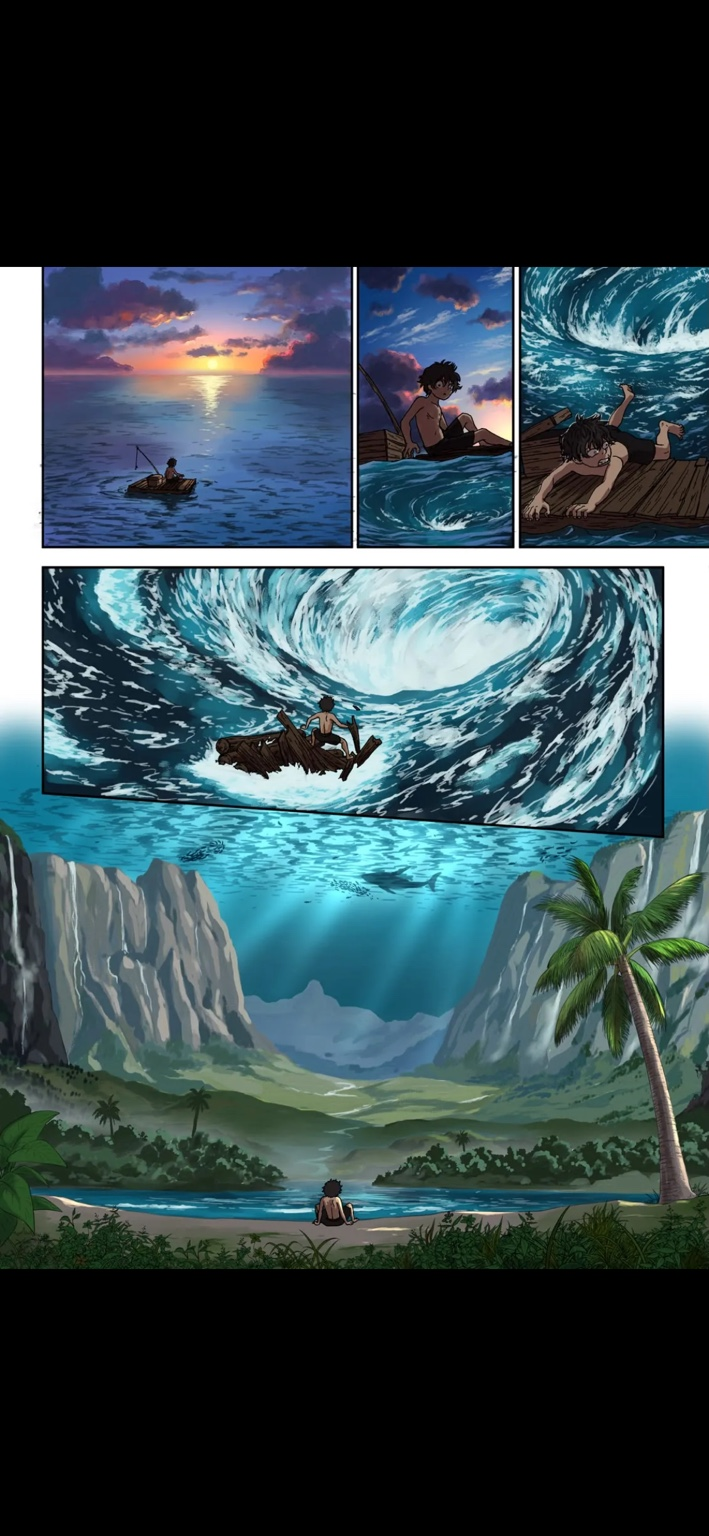
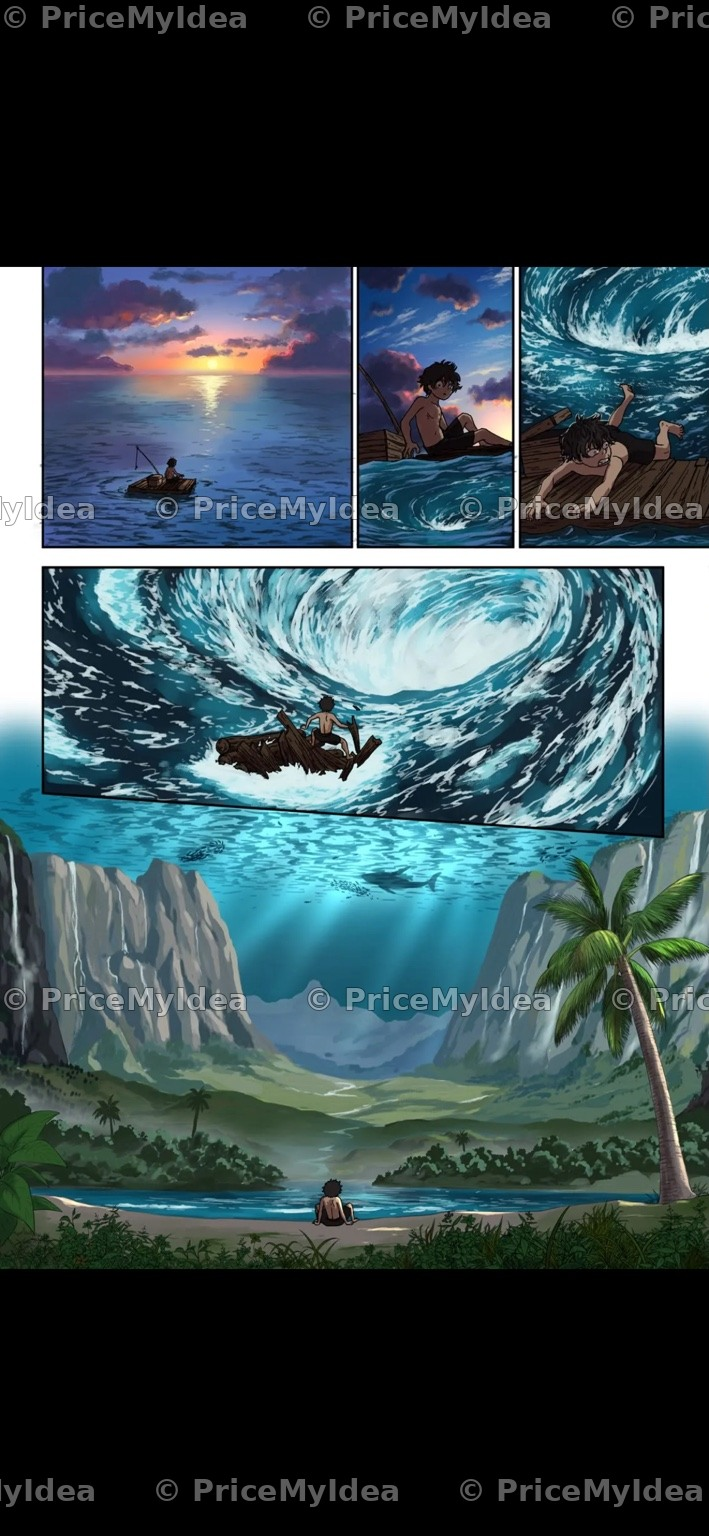
watermark on all art work update

diff --git a/index.html b/index.html
@@ -98,34 +98,34 @@
  <div class="section-header"><h2>Popular Project Types</h2><a class="muted-link" href="pages/pricing-guides.html">View All →</a></div>
  <div class="project-grid">
  <article class="project-card animation-card blank-card">
- <div class="thumb" style="background-image:url('assets/2d-animation-character-rig.jpg'); background-position:center 34%; background-size:cover;"></div>
+ <div class="thumb" style="background-image:url('assets/2d-animation-character-rig.jpg?v=watermark-v15'); background-position:center 34%; background-size:cover;"></div>
  <div class="body"><div><h3>2D Animation</h3><p>$1,200 to $3,800</p></div><div class="arrow">→</div></div>
  </article>
  <article class="project-card illustration-card">
- <div class="thumb" style="background-image:url('assets/illustration-cover-cropped.jpg');"></div>
+ <div class="thumb" style="background-image:url('assets/illustration-cover-cropped.jpg?v=watermark-v15');"></div>
  <div class="body"><div><h3>Illustration</h3><p>$80 to $600</p></div><div class="arrow">→</div></div>
  </article>
  <article class="project-card comic-card">
- <div class="thumb" style="background-image:url('assets/comic-manga-cover.jpg'); background-position:center 42%;"></div>
+ <div class="thumb" style="background-image:url('assets/comic-manga-cover.jpg?v=watermark-v15'); background-position:center 42%;"></div>
  <div class="body"><div><h3>Comic / Manga</h3><p>$300 to $1,500</p></div><div class="arrow">→</div></div>
  </article>
  <article class="project-card video-card">
- <div class="thumb" style="background-image:url('assets/video-editing-cover.jpg'); background-position:center center;"></div>
+ <div class="thumb" style="background-image:url('assets/video-editing-cover.jpg?v=watermark-v15'); background-position:center center;"></div>
  <div class="body"><div><h3>Video Editing</h3><p>$200 to $1,200</p></div><div class="arrow">→</div></div>
  </article>
  <article class="project-card graphic-card">
- <div class="thumb" style="background-image:url('assets/graphic-design-cover.jpg'); background-position:center 38%;"></div>
+ <div class="thumb" style="background-image:url('assets/graphic-design-cover.jpg?v=watermark-v15'); background-position:center 38%;"></div>
  <div class="body"><div><h3>Graphic Design</h3><p>$150 to $800</p></div><div class="arrow">→</div></div>
  </article>
  <article class="project-card music-card">
- <div class="thumb" style="background-image:url('assets/music-cover.jpg'); background-position:center center;"></div>
+ <div class="thumb" style="background-image:url('assets/music-cover.jpg?v=watermark-v15'); background-position:center center;"></div>
  <div class="body"><div><h3>Music</h3><p>$100 to $800</p></div><div class="arrow">→</div></div>
  </article>
  </div>
  </section>
 
  <section class="cta-row">
- <article class="card cta-card image" style="background-image:url('assets/frontpage-bg-cropped.jpg'); background-position:center 18%;">
+ <article class="card cta-card image" style="background-image:url('assets/frontpage-bg-cropped.jpg?v=watermark-v15'); background-position:center 18%;">
  <h3>Hiring a freelancer?</h3>
  <p>Get a realistic price range, see detailed breakdowns, and find the right talent for your project.</p>
  <a class="btn btn-primary" href="pages/calculator.html">Calculate My Project →</a>

diff --git a/pricemyproject-preview.html b/pricemyproject-preview.html
@@ -98,34 +98,34 @@
  <div class="section-header"><h2>Popular Project Types</h2><a class="muted-link" href="pages/pricing-guides.html">View All →</a></div>
  <div class="project-grid">
  <article class="project-card animation-card blank-card">
- <div class="thumb" style="background-image:url('assets/2d-animation-character-rig.jpg'); background-position:center 34%; background-size:cover;"></div>
+ <div class="thumb" style="background-image:url('assets/2d-animation-character-rig.jpg?v=watermark-v15'); background-position:center 34%; background-size:cover;"></div>
  <div class="body"><div><h3>2D Animation</h3><p>$1,200 to $3,800</p></div><div class="arrow">→</div></div>
  </article>
  <article class="project-card illustration-card">
- <div class="thumb" style="background-image:url('assets/illustration-cover-cropped.jpg');"></div>
+ <div class="thumb" style="background-image:url('assets/illustration-cover-cropped.jpg?v=watermark-v15');"></div>
  <div class="body"><div><h3>Illustration</h3><p>$80 to $600</p></div><div class="arrow">→</div></div>
  </article>
  <article class="project-card comic-card">
- <div class="thumb" style="background-image:url('assets/comic-manga-cover.jpg'); background-position:center 42%;"></div>
+ <div class="thumb" style="background-image:url('assets/comic-manga-cover.jpg?v=watermark-v15'); background-position:center 42%;"></div>
  <div class="body"><div><h3>Comic / Manga</h3><p>$300 to $1,500</p></div><div class="arrow">→</div></div>
  </article>
  <article class="project-card video-card">
- <div class="thumb" style="background-image:url('assets/video-editing-cover.jpg'); background-position:center center;"></div>
+ <div class="thumb" style="background-image:url('assets/video-editing-cover.jpg?v=watermark-v15'); background-position:center center;"></div>
  <div class="body"><div><h3>Video Editing</h3><p>$200 to $1,200</p></div><div class="arrow">→</div></div>
  </article>
  <article class="project-card graphic-card">
- <div class="thumb" style="background-image:url('assets/graphic-design-cover.jpg'); background-position:center 38%;"></div>
+ <div class="thumb" style="background-image:url('assets/graphic-design-cover.jpg?v=watermark-v15'); background-position:center 38%;"></div>
  <div class="body"><div><h3>Graphic Design</h3><p>$150 to $800</p></div><div class="arrow">→</div></div>
  </article>
  <article class="project-card music-card">
- <div class="thumb" style="background-image:url('assets/music-cover.jpg'); background-position:center center;"></div>
+ <div class="thumb" style="background-image:url('assets/music-cover.jpg?v=watermark-v15'); background-position:center center;"></div>
  <div class="body"><div><h3>Music</h3><p>$100 to $800</p></div><div class="arrow">→</div></div>
  </article>
  </div>
  </section>
 
  <section class="cta-row">
- <article class="card cta-card image" style="background-image:url('assets/frontpage-bg-cropped.jpg'); background-position:center 18%;">
+ <article class="card cta-card image" style="background-image:url('assets/frontpage-bg-cropped.jpg?v=watermark-v15'); background-position:center 18%;">
  <h3>Hiring a freelancer?</h3>
  <p>Get a realistic price range, see detailed breakdowns, and find the right talent for your project.</p>
  <a class="btn btn-primary" href="pages/calculator.html">Calculate My Project →</a>

diff --git a/pages/pricing-guides.html b/pages/pricing-guides.html
@@ -22,7 +22,7 @@
  </div>
  </div>
 </header>
-<main class="container content-page"><section class="card page-hero"><div class="eyebrow">Pricing Guides</div><h1>Creative Pricing Guides</h1><p>In-depth breakdowns for creative projects. This starter build includes example cards and can be expanded into SEO-driven guide pages later.</p></section><section class="guide-grid"><article class="card guide-card"><div class="thumb" style="background-image:url('../assets/beach-animation-cover.jpg'); background-position:center center"></div><h3>2D Animation Cost</h3><p>How much does 2D animation cost per minute? Learn what changes the range.</p><a class="muted-link" href="calculator.html">Get estimate →</a></article><article class="card guide-card"><div class="thumb" style="background-image:url('../assets/illustration-cover-cropped.jpg'); background-position:center 34%"></div><h3>Illustration Cost</h3><p>The user-provided illustration cover is used here as a sample project-type visual.</p><a class="muted-link" href="calculator.html?category=illustration">Get estimate →</a></article><article class="card guide-card"><div class="thumb" style="background-image:url('../assets/frontpage-bg-cropped.jpg'); background-position:center 26%"></div><h3>Comic / Manga Cost</h3><p>Page rates, covers, line art, and coloring costs for indie comic work.</p><a class="muted-link" href="calculator.html?category=comic">Get estimate →</a></article></section></main>
+<main class="container content-page"><section class="card page-hero"><div class="eyebrow">Pricing Guides</div><h1>Creative Pricing Guides</h1><p>In-depth breakdowns for creative projects. This starter build includes example cards and can be expanded into SEO-driven guide pages later.</p></section><section class="guide-grid"><article class="card guide-card"><div class="thumb" style="background-image:url('../assets/beach-animation-cover.jpg?v=watermark-v15'); background-position:center center"></div><h3>2D Animation Cost</h3><p>How much does 2D animation cost per minute? Learn what changes the range.</p><a class="muted-link" href="calculator.html">Get estimate →</a></article><article class="card guide-card"><div class="thumb" style="background-image:url('../assets/illustration-cover-cropped.jpg?v=watermark-v15'); background-position:center 34%"></div><h3>Illustration Cost</h3><p>The user-provided illustration cover is used here as a sample project-type visual.</p><a class="muted-link" href="calculator.html?category=illustration">Get estimate →</a></article><article class="card guide-card"><div class="thumb" style="background-image:url('../assets/frontpage-bg-cropped.jpg?v=watermark-v15'); background-position:center 26%"></div><h3>Comic / Manga Cost</h3><p>Page rates, covers, line art, and coloring costs for indie comic work.</p><a class="muted-link" href="calculator.html?category=comic">Get estimate →</a></article></section></main>
 <footer class="footer">
  <div class="container">
  <div>© 2026 <strong>PriceMyIdea</strong>. Creative pricing shouldn’t be a mystery.</div>

diff --git a/styles.css b/styles.css
@@ -76,7 +76,7 @@ img { max-width: 100%; display: block; }
  position: absolute; inset: 0;
  background:
  linear-gradient(90deg, rgba(6,16,31,.95) 0%, rgba(6,16,31,.82) 42%, rgba(6,16,31,.56) 68%, rgba(6,16,31,.84) 100%),
- url('assets/frontpage-bg-cropped.jpg') center center / cover no-repeat;
+ url('assets/frontpage-bg-cropped.jpg?v=watermark-v15') center center / cover no-repeat;
  filter: saturate(1.05);
 }
 .hero .container { position: relative; z-index: 1; }
